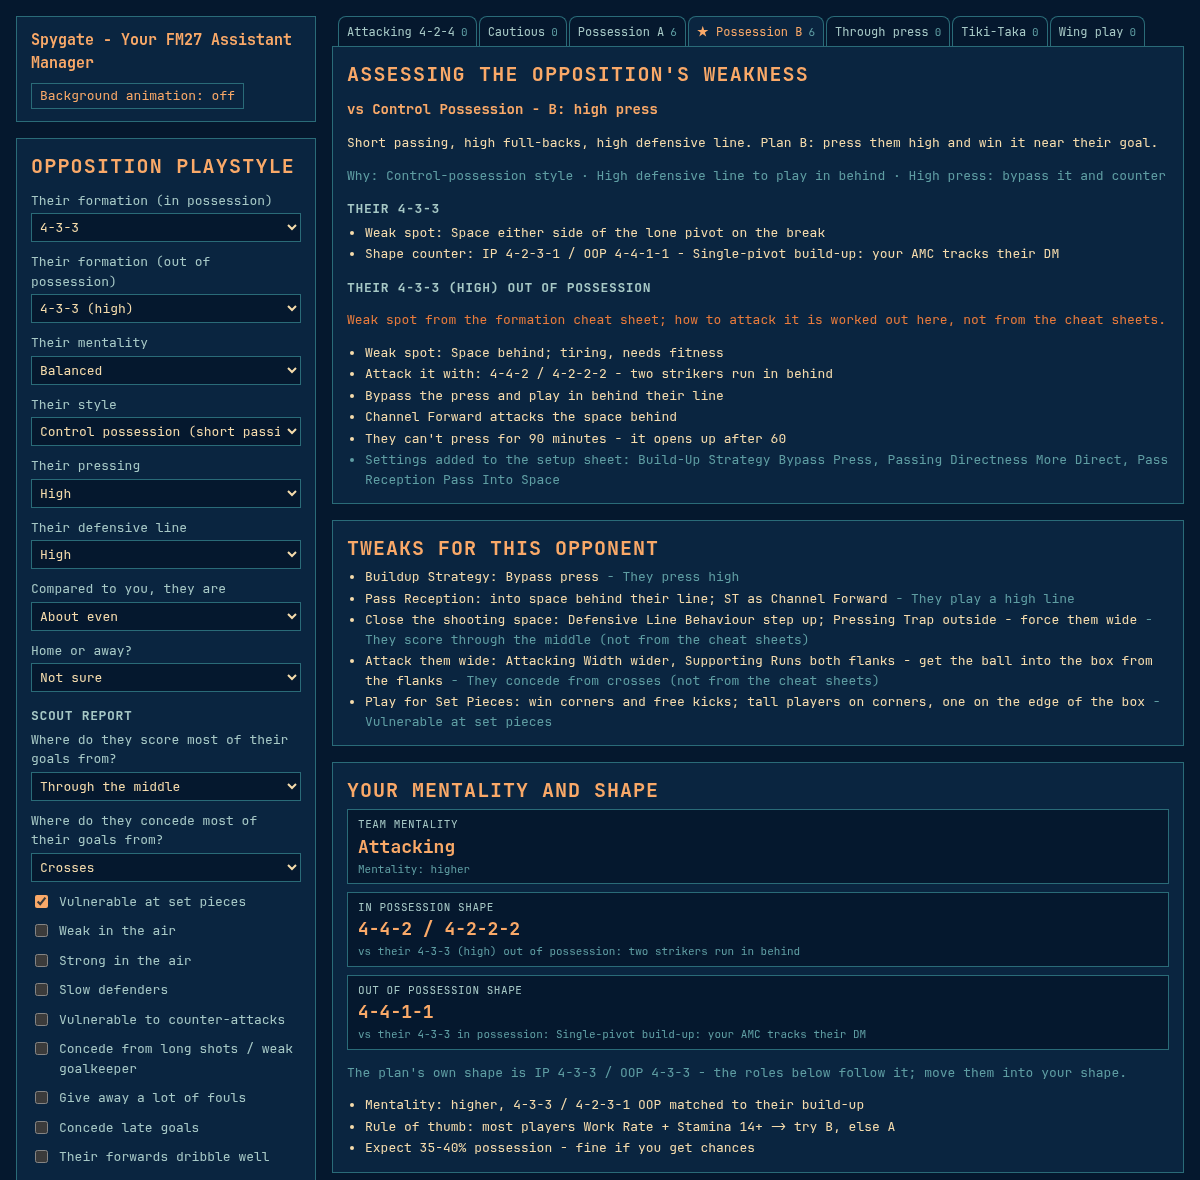
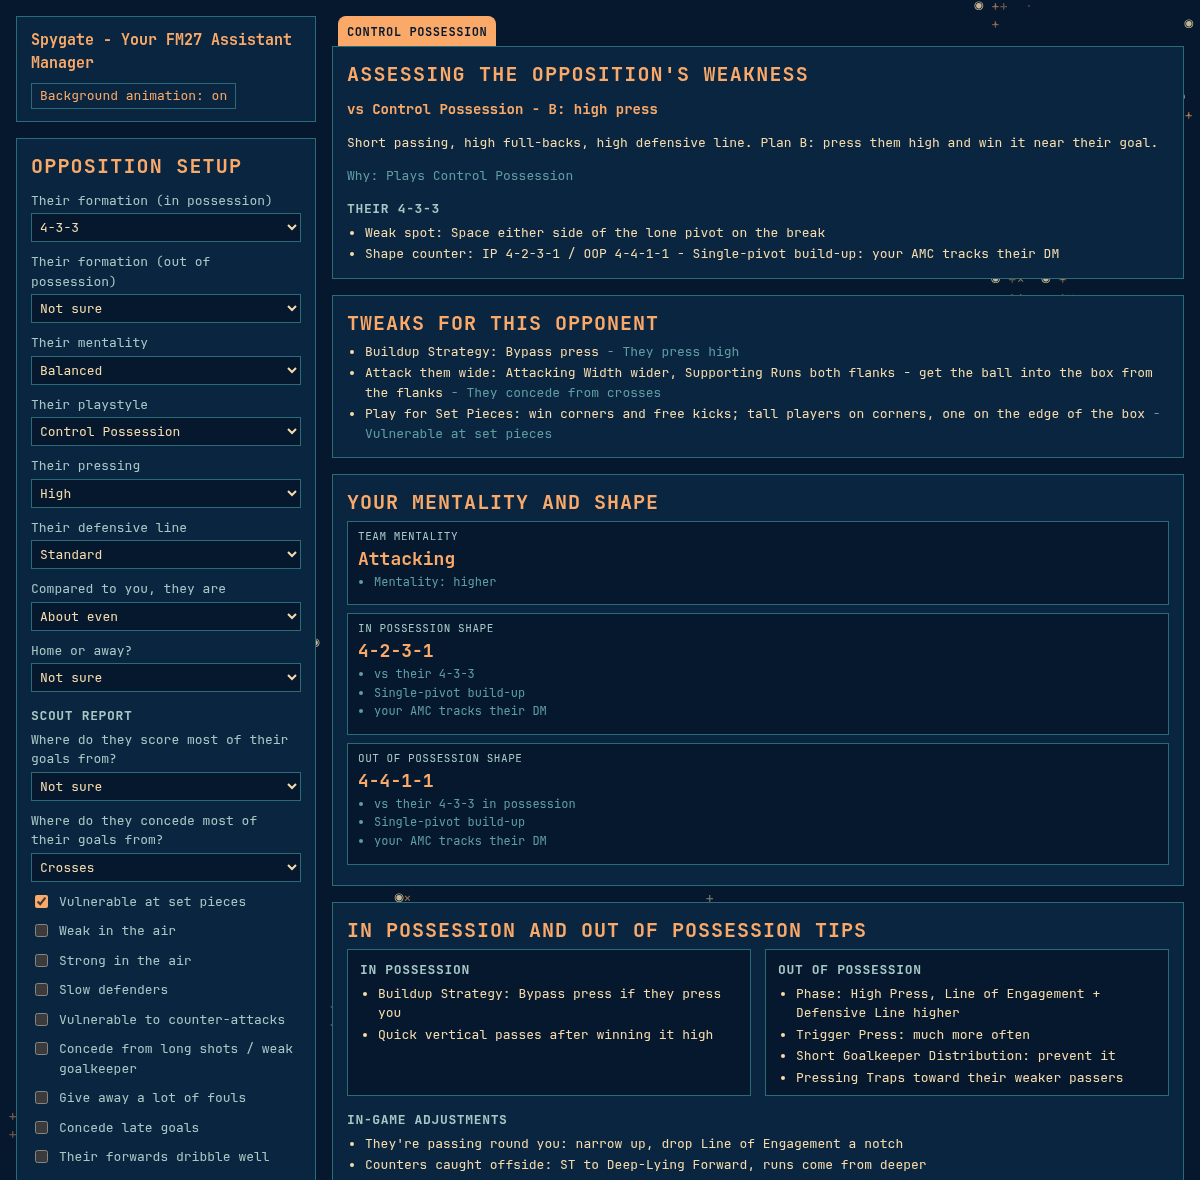
Refresh README screenshots for the playstyle layout

diff --git a/README.md b/README.md
@@ -10,7 +10,7 @@ A counter-tactic helper for Football Manager 27. Describe the opponent (their in
 
 ## Screenshots
 
-Against a possession side in a 4-3-3 that presses high: the plan it picks, why, and the tweaks from the scout report.
+Against a Control Possession side in a 4-3-3 that presses high: the counter plan, your mentality and shapes, and the tweaks from the scout report.
 
 ![Overview: opponent inputs, scout report and the recommended plan](screenshots/overview.png)
 
